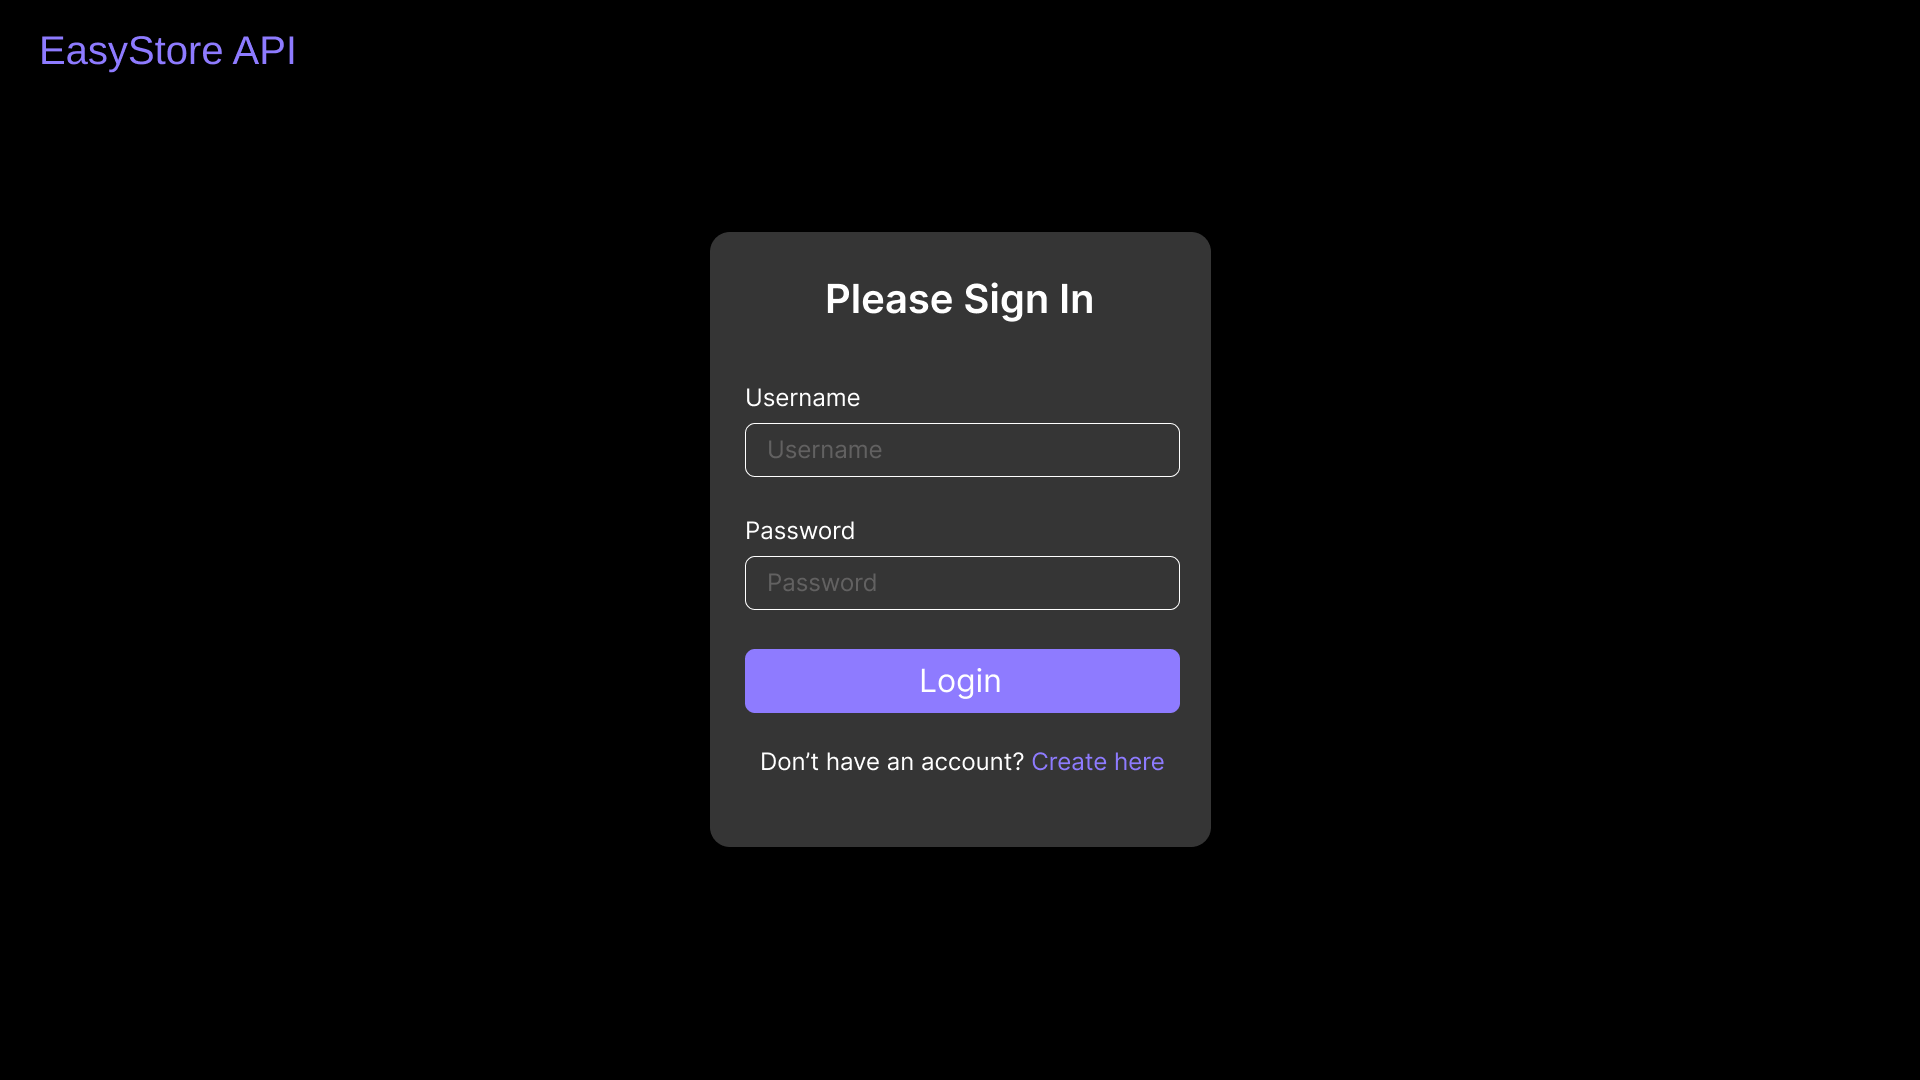
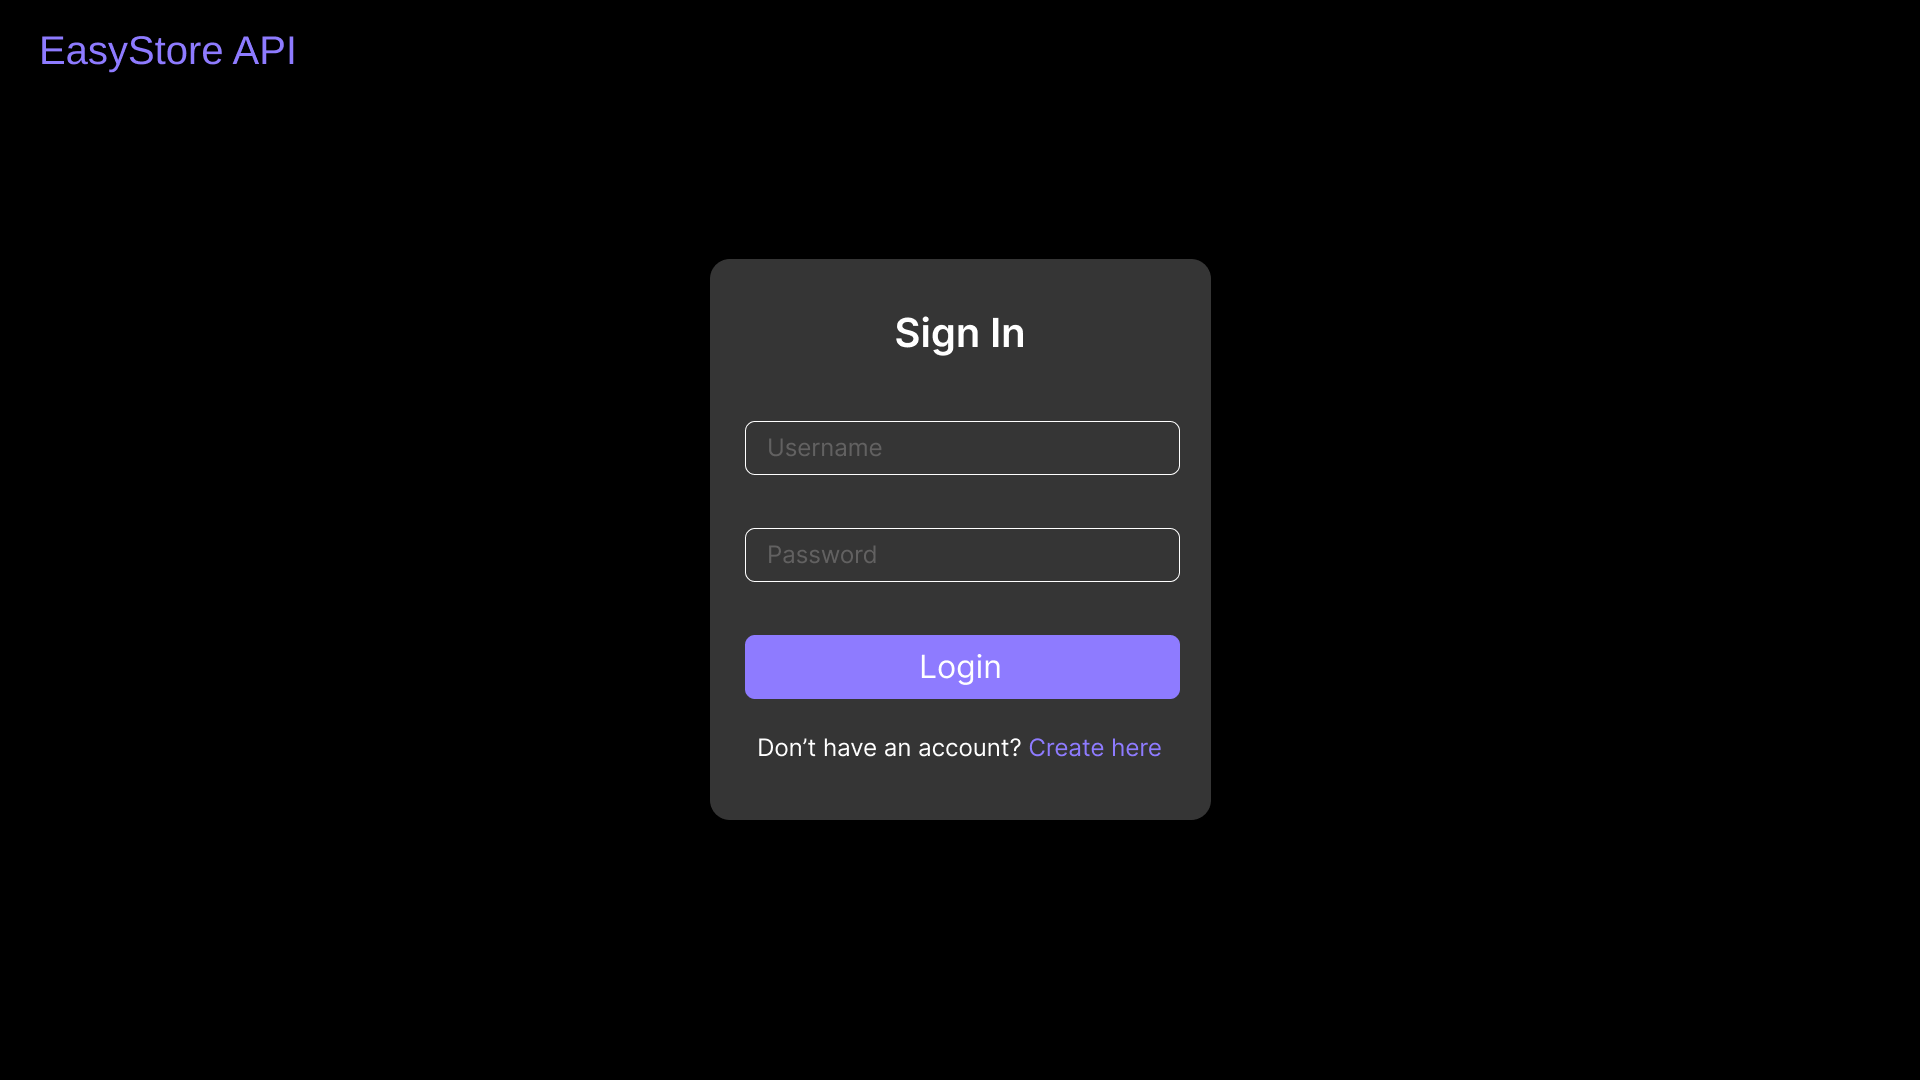
first-update

diff --git a/templates/new/index.html b/templates/new/index.html
@@ -1,0 +1,44 @@
+{% extends "/new/base.html" %}
+
+{% block title %}Home{% endblock %}
+
+{% block content %}
+    <div class="jumbotron" style="background-color: #353535;">
+        <h1 class="display-4" style="color:#ffffff;">Welcome, {{ current_user.username }}!</h1>
+        <p class="lead" style="color: #ffffff;">Generate and manage your API keys easily.</p>
+        <hr class="my-4">
+        <form action="/generate" method="post" class="form-inline">
+            <label id="descriptionbutton"  class="sr-only" for="description" >Description</label>
+            <input type="text" class="form-control mb-2 mr-sm-2" style="border-color:#ffffff;" style="background-color: #353535;" id="description" name="description" placeholder="Description" required>
+            <button id="apibutton" type="submit" style="background-color: #8d7bff;"class="btn btn-primary mb-2">Generate API Key</button>
+        </form>
+    </div>
+
+    <h2 style="color: #ffffff;">Existing API Keys</h2>
+    <button class="btn btn-secondary" style="background-color: #007bff;" onclick="listKeys()">Refresh</button>
+    <ul id="key-list" class="list-group mt-3" style="color: #000000;"></ul>
+    
+    <h2 style="color: #ffffff;">Deactivate API Key</h2>
+    <form action="/deactivate" method="post" class="form-inline">
+        <label class="sr-only" for="key">API Key</label>
+        <input type="text" class="form-control mb-2 mr-sm-2" id="key" style="border-color: #ffffff;" style="fill: #000000;" name="key" placeholder="API Key to deactivate" required>
+        <button type="submit" class="btn btn-danger mb-2">Deactivate</button>
+    </form>
+
+    <script>
+        function listKeys() {
+            fetch('/keys')
+                .then(response => response.json())
+                .then(data => {
+                    const keyList = document.getElementById('key-list');
+                    keyList.innerHTML = '';
+                    for (const [key, value] of Object.entries(data)) {
+                        const listItem = document.createElement('li');
+                        listItem.className = 'list-group-item';
+                        listItem.textContent = `Key: ${key}, Description: ${value.description}, Active: ${value.active}`;
+                        keyList.appendChild(listItem);
+                    }
+                });
+        }
+    </script>
+{% endblock %}

diff --git a/templates/new/base.html b/templates/new/base.html
@@ -2,15 +2,16 @@
 <html lang="en">
 <head>
     <meta charset="UTF-8">
-    <meta name="viewport" content="width=device-width, initial-scale=1, shrink-to-fit=no">
-    <title>{% block title %}{% endblock %}</title>
-    <link href="https://stackpath.bootstrapcdn.com/bootstrap/4.5.2/css/bootstrap.min.css" rel="stylesheet">
-    <link href="{{ url_for('static', filename='new/style_new.css') }}" rel="stylesheet">
+    <meta name="viewport" content="width=device-width, initial-scale=1.0">
+    <title>{% block title %}My App{% endblock %}</title>
+    <!-- <link href="https://stackpath.bootstrapcdn.com/bootstrap/4.5.2/css/bootstrap.min.css" rel="stylesheet"> -->
+    <link rel="stylesheet" href="{{ url_for('static', filename='style_new.css') }}">
 </head>
 <body">
-    <nav class="navbar navbar-expand-lg navbar-light bg-black" style="background-color: black;">
-        <a class="navbar-brand" style="color: #8d7bff;" href="/">API Key Generator</a>
-        <button class="navbar-toggler" type="button" data-toggle="collapse" data-target="#navbarNav" aria-controls="navbarNav" aria-expanded="false" aria-label="Toggle navigation">
+    <!-- <nav class="navbar navbar-expand-lg navbar-light bg-black" style="background-color: black;"> -->
+        <!-- <a class="navbar-brand" style="color: #8d7bff;" href="/">API Key Generator</a> -->
+        <div class="header" href="/login">EasyStore API</div>
+        <!-- <button class="navbar-toggler" type="button" data-toggle="collapse" data-target="#navbarNav" aria-controls="navbarNav" aria-expanded="false" aria-label="Toggle navigation">
             <span class="navbar-toggler-icon"></span>
         </button>
         <div class="collapse navbar-collapse" id="navbarNav">
@@ -28,8 +29,8 @@
                     </li>
                 {% endif %}
             </ul>
-        </div>
-    </nav>
+        </div> -->
+    <!-- </nav> -->
     <div class="container">
         {% block content %}{% endblock %}
     </div>

diff --git a/templates/new/register.html b/templates/new/register.html
@@ -1,0 +1,44 @@
+{% extends "/new/base.html" %}
+
+{% block title %}Home - EasyStore API{% endblock %}
+
+{% block content %}
+
+<!-- <!DOCTYPE html>
+<html lang="en">
+<head>
+    <meta charset="UTF-8">
+    <meta name="viewport" content="width=device-width, initial-scale=1.0">
+    <title>Register</title>
+    <link rel="stylesheet" href="/static/style_new.css">
+</head> -->
+<body>
+    <div class="container">
+        <!-- <div class="header" href="/new/login">EasyStore API </div> -->
+        <div class="card">
+            <div class="card-header">
+                <h1 class="card-title">Register</h1>
+            </div>
+            <form method="POST" action="{{ url_for('register') }}">
+                <input type="text" name="username" placeholder="Username" class="input" required>
+                <input type="password" name="password" placeholder="Password" class="input" required>
+                <button type="submit" class="btn">Create account</button>
+            <!-- </form>
+            <div class="card-content">
+                <input type="text" placeholder="Username" class="input" required>
+                <input type="password" placeholder="Password" class="input" required>
+            </div>
+            <div class="card-footer">
+                <button class="btn" type="submit">Create account</button> -->
+            {% if error %}
+            <div class="alert alert-danger mt-3">
+            {{ error }}
+            </div>
+            {% endif %}
+            <p class="text">Have an account? <a href="/new/login">Sign in</a></p>
+            </div>
+        </div>
+    </div>
+</body>
+</html>
+{% endblock %}

diff --git a/static/style_new.css b/static/style_new.css
@@ -77,10 +77,95 @@ body {
 .text {
     color: #9CA3AF; /* gray-400 */
     font-size: 0.875rem;
+    text-align: center;
 }
 
 .text a {
     color: #A855F7; /* purple-500 */
 }
 
+.alert-danger {
+    /* background-color: #F87171; */
+    color: #F87171; /* gray-800 */
+    font-size: 0.875rem;
+    /* padding: 0.75rem; */
+    /* border-radius: 0.25rem; */
+    margin-top: 1rem;
+    text-align: center;
+}
 
+/* Welcome Area Styling */
+.welcome-area {
+    background-color: #2c2c2c;
+    color: #7fa516;
+    border-radius: 15px;
+    padding: 20px;
+    width: 100%;
+    max-width: 800px;
+    color: #1a6215;
+}
+
+.jumbotron{
+    height: 300px;
+    
+}
+
+/* Form Controls */
+.form-control {
+    border-radius: 8px; /* Rounded corners */
+    border: 1px solid #333;
+    background-color: #222;
+    color: #ffffff;
+    padding: 10px;
+}
+
+.form-control:focus {
+    border-color: #007bff;
+    box-shadow: 0 0 5px rgba(0, 123, 255, 0.5);
+}
+
+/* Button Styling */
+.btn-primary {
+    background-color: #8d7bff;
+    border: none;
+    border-radius: 10px; /* Rounded corners */
+    padding: 10px;
+    font-size: 18px;
+    transition: background-color 0.3s, transform 0.3s;
+}
+
+#apibutton{
+    height: 39px;    
+}
+
+
+
+.btn-primary:hover {
+    background-color: #8d7bff;
+    transform: scale(1.05);
+}
+
+
+
+/* Link Styling */
+.text-primary {
+    color: #8d7bff;
+}
+
+.text-primary:hover {
+    text-decoration: underline;
+}
+
+/* List Links */
+.file-link {
+    color: #8d7bff;
+}
+
+.file-link:hover {
+    text-decoration: underline;
+}
+
+/* Instruction List */
+ol {
+    padding-left: 20px;
+}

diff --git a/templates/new/login.html b/templates/new/login.html
@@ -1,0 +1,40 @@
+{% extends "/new/base.html" %}
+
+{% block title %}Home - EasyStore API{% endblock %}
+
+{% block content %}
+
+<!-- <!DOCTYPE html>
+<html lang="en">
+<head>
+    <meta charset="UTF-8">
+    <meta name="viewport" content="width=device-width, initial-scale=1.0">
+    <title>Sign In</title>
+    <link rel="stylesheet" href="/static/style_new.css">
+</head> -->
+<body>
+    <div class="container">
+        <!-- <div class="header" href="/login">EasyStore API</div> -->
+        <div class="card">
+            <div class="card-header">
+                <h1 class="card-title">Sign In</h1>
+            </div>
+            <form method="POST" action="{{ url_for('login') }}">
+                <input type="text" name="username" placeholder="Username" class="input" required>
+                <input type="password" name="password" placeholder="Password" class="input" required>
+                <button type="submit" class="btn">Login</button>
+            </form>
+            <!-- <div class="card-content">
+                <input type="text" placeholder="Username" class="input" required>
+                <input type="password" placeholder="Password" class="input" required>
+            </div>
+            <div class="card-footer">
+                <button class="btn" type="submit">Login</button> -->
+                <p class="text">Don’t have an account? <a href="/new/register">Create here</a></p>
+            </div>
+        </div>
+    </div>
+
+</body>
+<!-- </html> -->
+{% endblock %}

diff --git a/app.py b/app.py
@@ -7,6 +7,7 @@ import os
 from werkzeug.utils import secure_filename
 from functools import wraps
 
+
 app = Flask(__name__)
 app.config['SECRET_KEY'] = os.getenv('SECRET_KEY', 'default_secret_key')
 app.config['SQLALCHEMY_DATABASE_URI'] = os.getenv('DATABASE_URL', 'postgresql://api:key@localhost/store')
@@ -17,7 +18,7 @@ ALLOWED_EXTENSIONS = {'txt', 'pdf', 'png', 'jpg', 'jpeg', 'gif'}
 db = SQLAlchemy(app)
 login_manager = LoginManager()
 login_manager.init_app(app)
-login_manager.login_view = 'login'
+login_manager.login_view = '/new/login'
 
 class User(UserMixin, db.Model):
     id = db.Column(db.Integer, primary_key=True)
@@ -53,7 +54,7 @@ def require_api_key(f):
         return f(*args, **kwargs)
     return decorated_function
 
-@app.route('/login', methods=['GET', 'POST'])
+@app.route('/new/login', methods=['GET', 'POST'])
 def login():
     if request.method == 'POST':
         username = request.form['username']
@@ -61,10 +62,10 @@ def login():
         user = User.query.filter_by(username=username).first()
         if user and check_password_hash(user.password, password):
             login_user(user)
-            return redirect(url_for('index'))
-    return render_template('login.html')
+            return redirect(url_for('/new/index'))
+    return render_template('/new/login.html')
 
-@app.route('/register', methods=['GET', 'POST'])
+@app.route('/new/register', methods=['GET', 'POST'])
 def register():
     if request.method == 'POST':
         username = request.form['username']
@@ -72,25 +73,27 @@ def register():
 
         existing_user = User.query.filter_by(username=username).first()
         if existing_user:
-            return 'Username already exists. Please choose a different username.', 400
+            # Pass the error message to the template
+            return render_template('/new/register.html', error="Username already exists. Please choose a different username.")
 
         hashed_password = generate_password_hash(password, method='sha256')
         user = User(username=username, password=hashed_password)
         db.session.add(user)
         db.session.commit()
-        return redirect(url_for('login'))
-    return render_template('register.html')
+        return redirect(url_for('/new/login'))
+    
+    return render_template('/new/register.html')
 
 @app.route('/logout')
 @login_required
 def logout():
     logout_user()
-    return redirect(url_for('login'))
+    return redirect(url_for('/new/login'))
 
 @app.route('/')
 @login_required
 def index():
-    return render_template('index.html')
+    return render_template('/new/index.html')
 
 @app.route('/generate', methods=['POST'])
 @login_required
@@ -100,7 +103,7 @@ def generate():
     new_key = APIKey(user_id=current_user.id, key=key, description=description)
     db.session.add(new_key)
     db.session.commit()
-    return redirect(url_for('index'))
+    return redirect(url_for('/new/index'))
 
 @app.route('/keys')
 @login_required
@@ -117,7 +120,7 @@ def deactivate():
     if key:
         key.active = False
         db.session.commit()
-        return redirect(url_for('index'))
+        return redirect(url_for('/new/index'))
     else:
         return 'API key not found or you do not have permission to deactivate this key.', 404
 

diff --git a/README.md b/README.md
@@ -38,8 +38,8 @@ The project consists of the following main files and directories:
 
 2. **Create a Virtual Environment**
    ```sh
-   python -m venv venv
-   source venv\Scripts\activate  # On Windows use `venv/bin/activate`
+   python -m venv .venv
+   source .venv\Scripts\activate  # On Windows use `.venv/bin/activate`
    ```
 
 3. **Install Dependencies**
